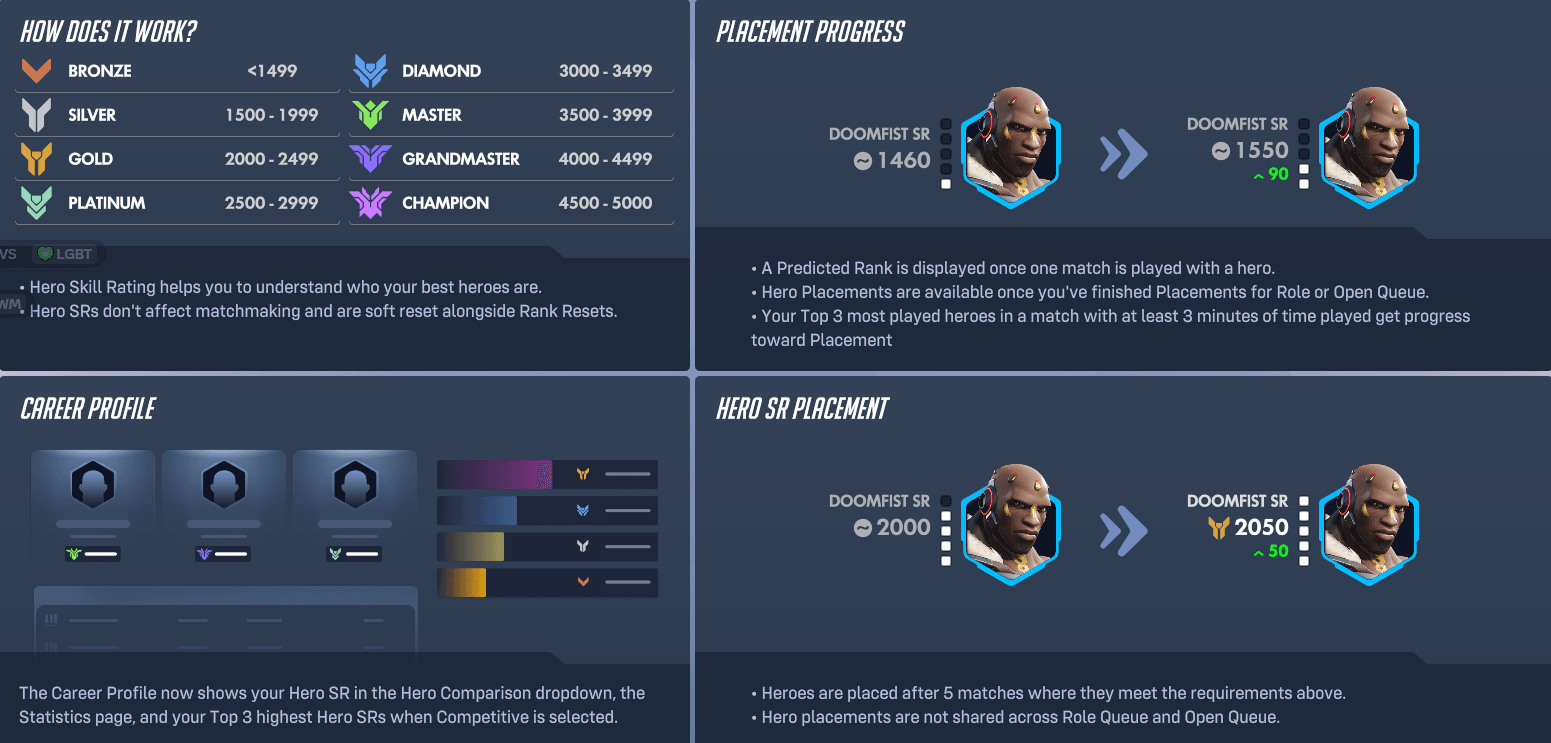
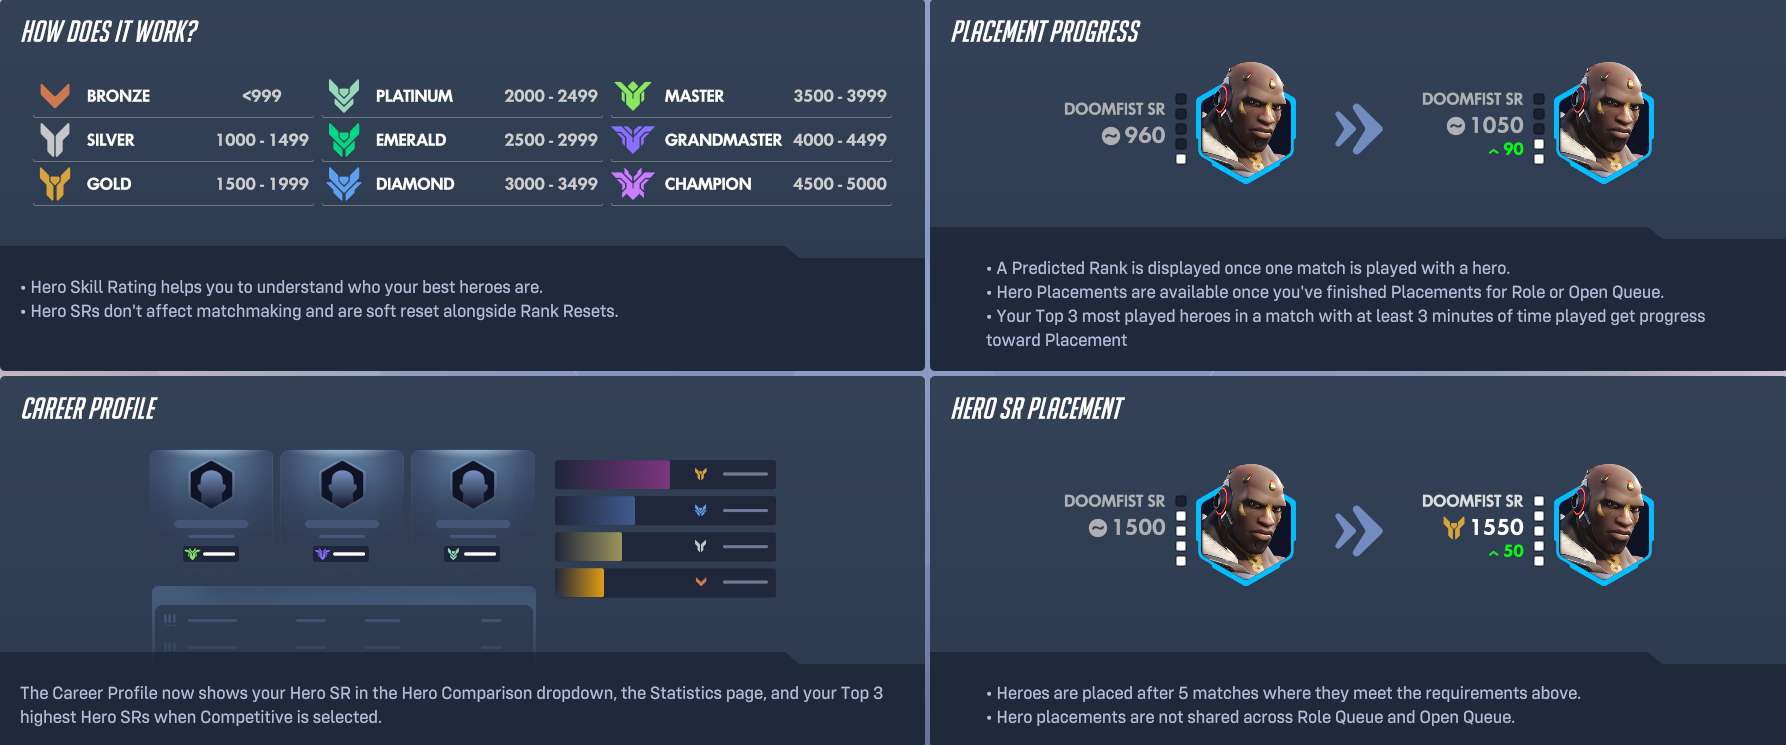
Add Hero Bans section to Competitive Guide
Reflects the updated competitive-hero-skill-rating.png (Emerald
thresholds now baked into the source image) and the new
competitive-hero-bans.png, covering Ranked Choice Voting weights,
the snake draft ban order, tie breakers, the per-role ban limit,
preferred-hero negative votes, and Lobby Bans.

diff --git a/src/components/CompetitiveGuide.jsx b/src/components/CompetitiveGuide.jsx
@@ -4,6 +4,7 @@ import { useFocusTrap } from "../hooks/useFocusTrap";
 import overviewImg  from "../assets/competitive/competitive-overview.png";
 import heroSrImg    from "../assets/competitive/competitive-hero-skill-rating.png";
 import modifiersImg from "../assets/competitive/competitive-modifiers.png";
+import heroBansImg  from "../assets/competitive/competitive-hero-bans.png";
 import drivesImg    from "../assets/competitive/competitive-drives.png";
 
 // Sources: Blizzard official articles (Season 9, 12, 18 competitive updates),
@@ -62,6 +63,23 @@ const SECTIONS = [
       "New / Reworked Map — You lost on a recently added or reworked map. Rank loss is reduced to account for unfamiliarity.",
     ],
     image: modifiersImg,
+  },
+  {
+    id: "hero-bans",
+    title: "Hero Bans",
+    intro:
+      "Before a match, both teams vote on which heroes to ban using a Ranked Choice Voting system. Each player can vote for up to 3 heroes, and the results decide which heroes are locked out for that match.",
+    details: [
+      "Each player votes for 3 heroes. A 1st choice vote is worth +7, a 2nd choice vote is worth +5, and a 3rd choice vote is worth +3. Votes are totaled separately for each team.",
+      "All players on both teams vote at the same time. An instant snake draft then sets the ban order: the team with the most votes for a single hero bans first, then the other team gets both of their bans, then the first team gets their second ban.",
+      "Ties for which hero to ban on your own team are broken by whichever hero the most players on that team voted for, then randomly if it's still tied.",
+      "If the top hero on each team ends up with the same number of votes, which team bans first is decided randomly.",
+      "A maximum of 2 heroes per role can be banned in a single match, unless a Lobby Ban is triggered.",
+      "Preferred heroes contribute 3 negative votes, making it harder to ban a hero your own team has marked as preferred. Negative votes for the same preferred hero don't stack.",
+      "A Lobby Ban can break the 2-per-role limit. It combines the vote totals from both teams, and a hero needs at least 10 combined votes with at least 1 vote from each team to qualify.",
+      "Ties for a Lobby Ban are broken in favor of the team with the smallest largest-group size, then randomly if it's still tied.",
+    ],
+    image: heroBansImg,
   },
   {
     id: "drives",
